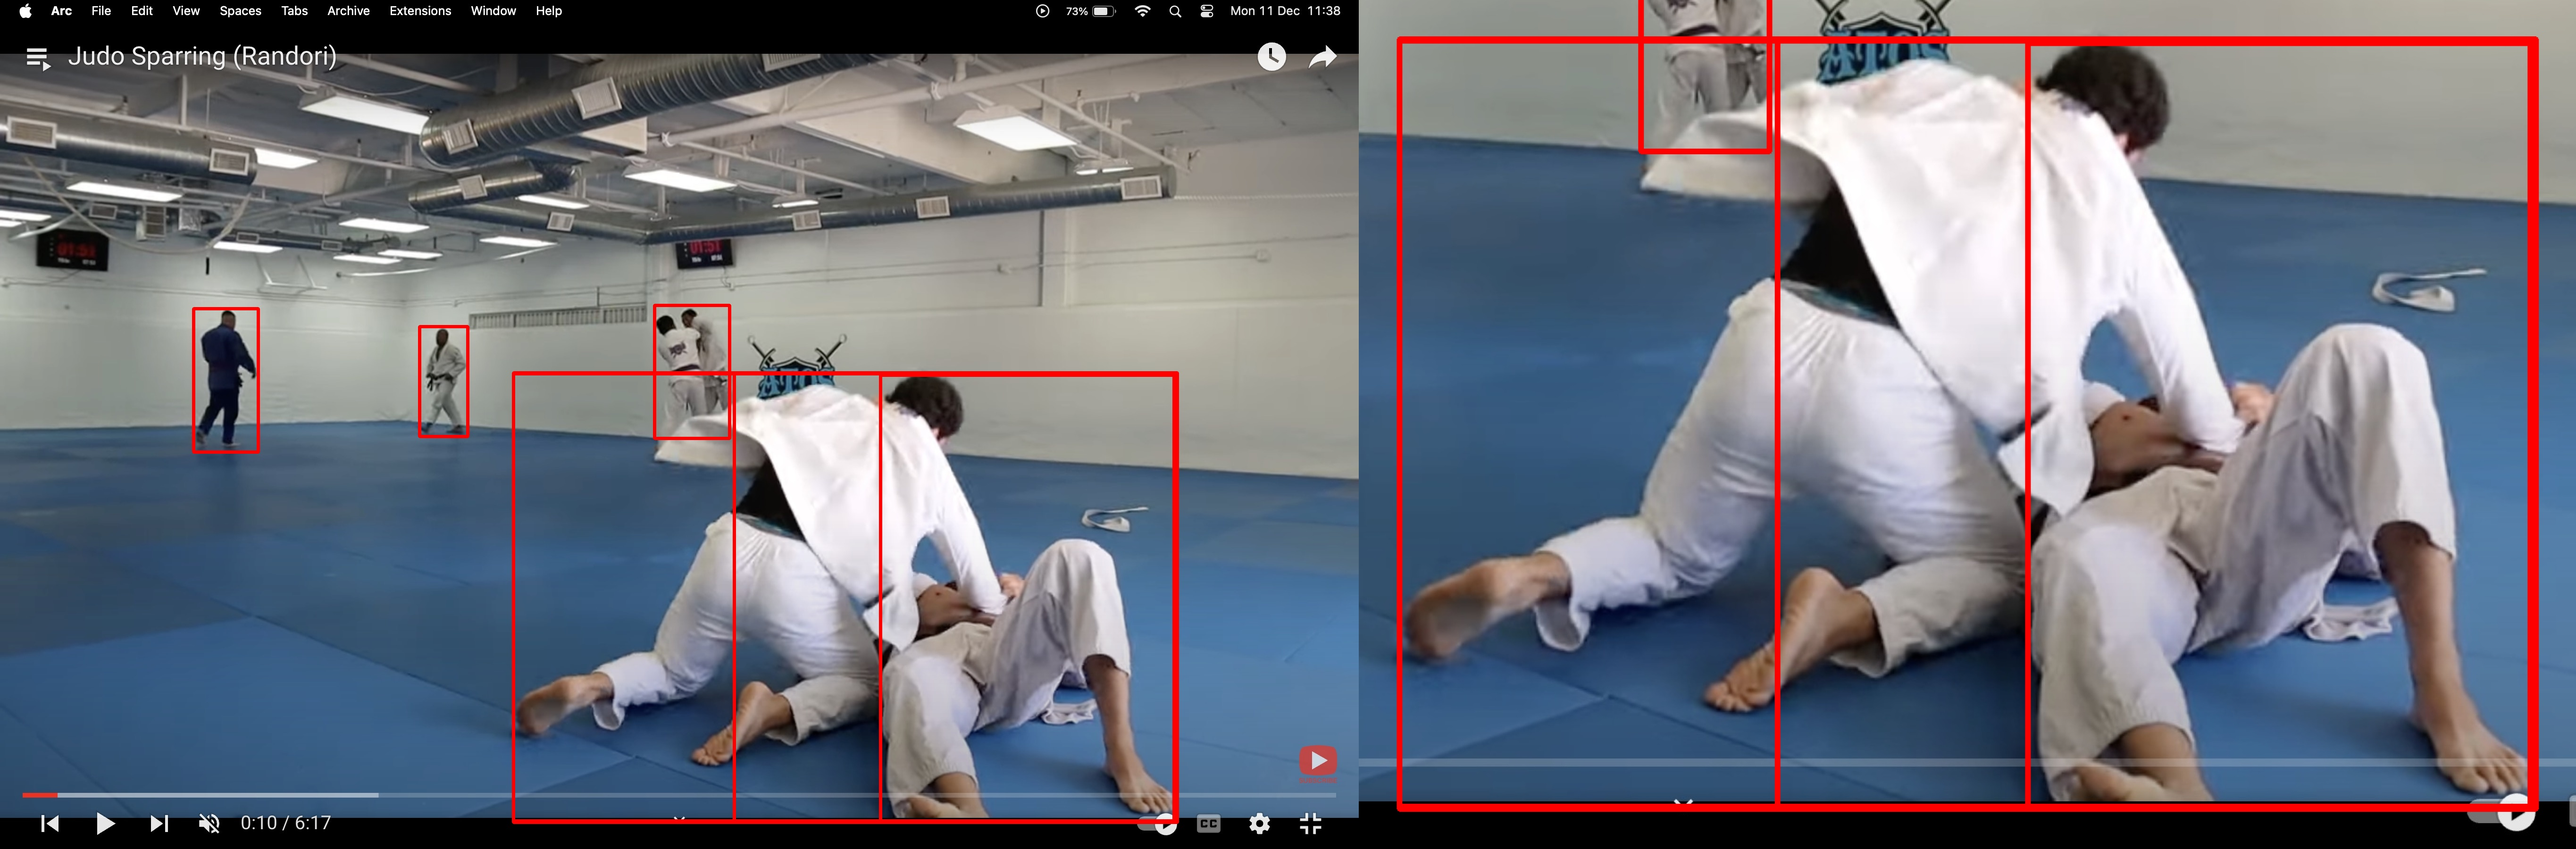
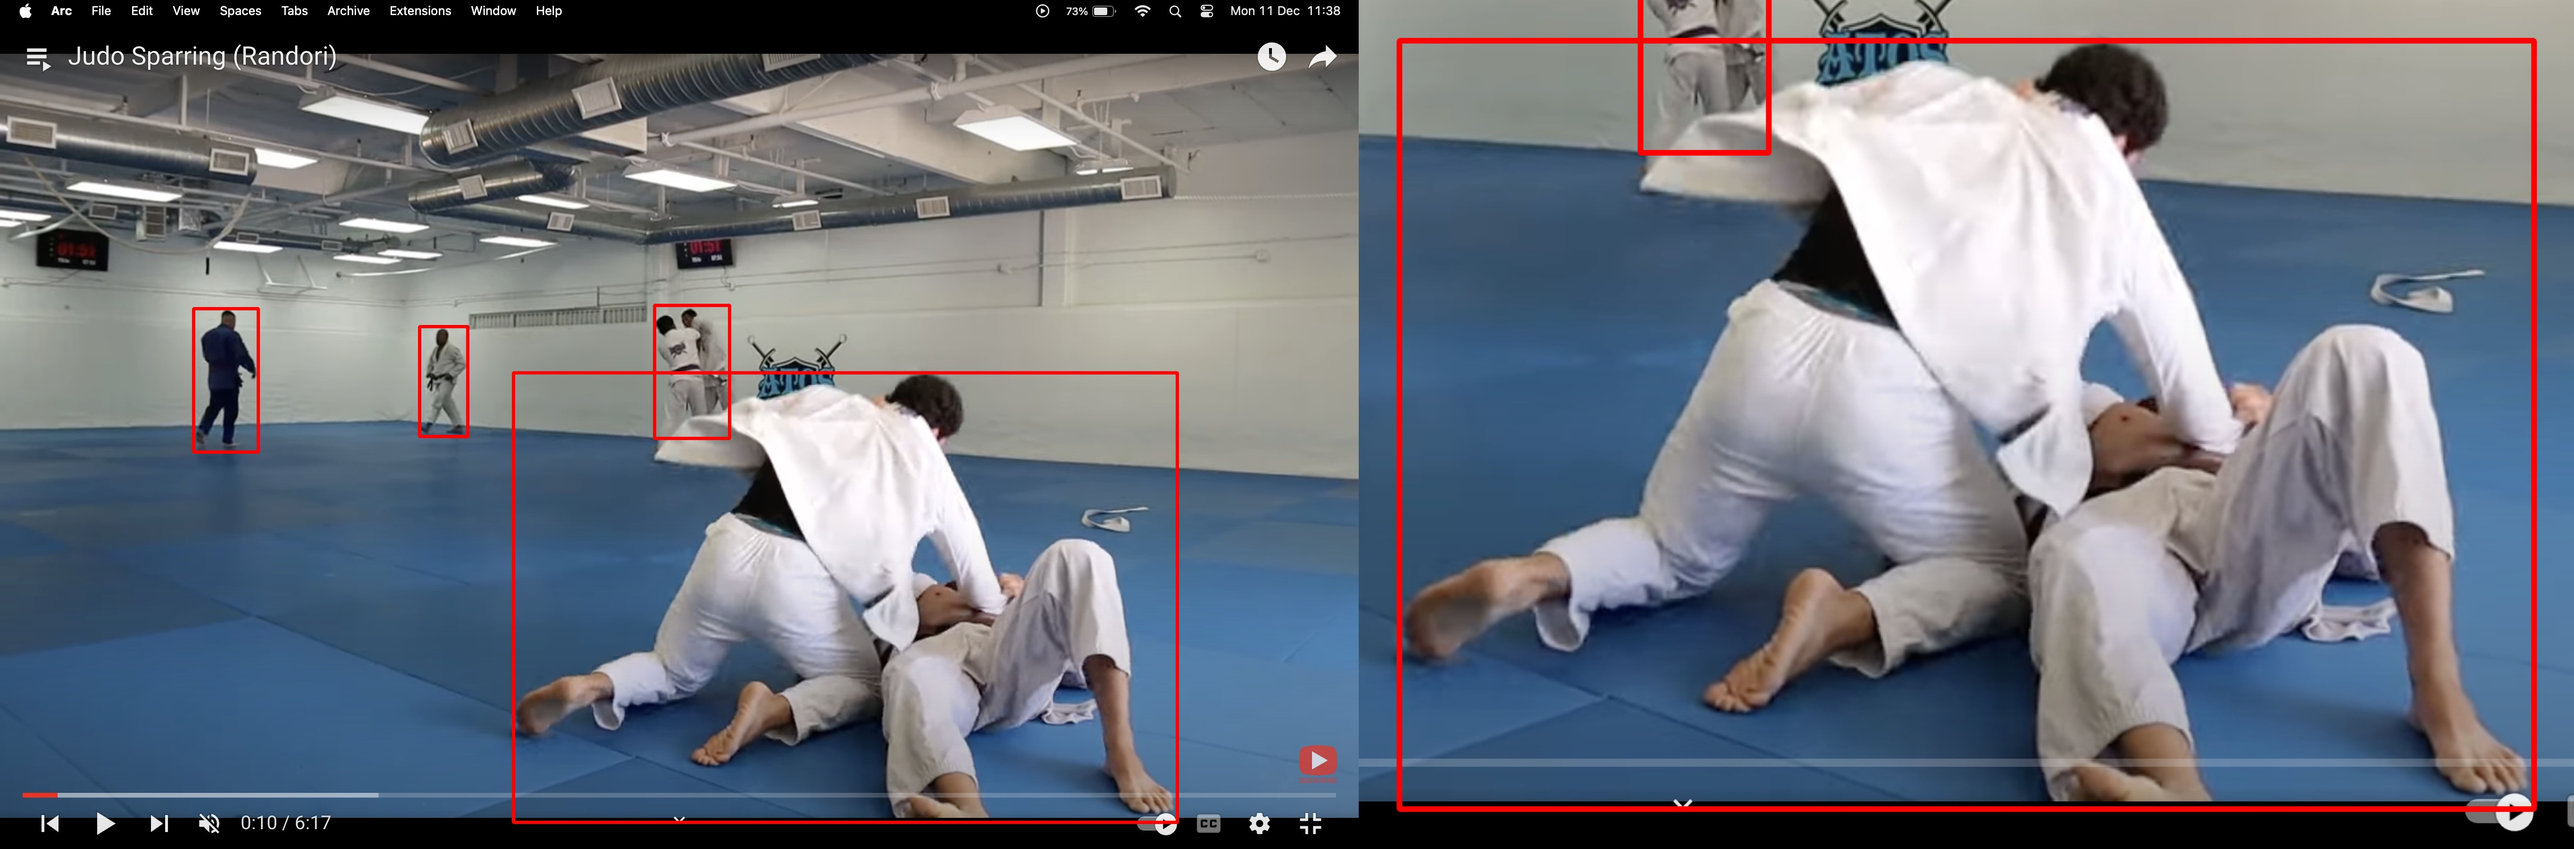
fixed multiple person detection in same pair

diff --git a/combine_bounding_boxes.py b/combine_bounding_boxes.py
@@ -3,8 +3,36 @@ import cv2
 from PIL import Image
 from itertools import combinations
 import numpy as np
+import copy
 
 model = YOLO("yolov8n.pt")
+
+
+def get_boxes(boxes):
+    
+    merged = []
+    t_boxes = copy.deepcopy(boxes)
+
+    boxes_to_check = merged + t_boxes
+
+    while any(mergeable(j0,k0) for j0,k0 in combinations(boxes_to_check, r=2)):
+        merged = []
+        t_boxes = copy.deepcopy(boxes_to_check)
+        for j,k in combinations(boxes_to_check, r=2):
+            if mergeable(j,k):
+                merged.append(list(merge(j,k)))
+                try:
+                    t_boxes.remove(j)
+                except ValueError:
+                    pass
+                try:
+                    t_boxes.remove(k)
+                except ValueError:
+                    pass
+                break
+        boxes_to_check = t_boxes + merged
+    
+    return boxes_to_check
 
 
 def mergeable(box1, box2, x_val=100, y_val=100):
@@ -141,7 +169,7 @@ final_boxes = []
 max_area = []
 
 results = model.predict(
-    ["starter_images/img1.jpg", 'starter_images/img2.jpg', 'starter_images/img3.jpg'], classes=[0], show_conf=False, show_labels=False
+    ["starter_images/img1.jpg", 'starter_images/img2.jpg', 'starter_images/img3.jpg'], classes=[0]
 )
 for i, r in enumerate(results):
     
@@ -149,19 +177,9 @@ for i, r in enumerate(results):
 
     bounding_boxes.extend(r.boxes.xyxy.tolist())
 
+    final_boxes = get_boxes(bounding_boxes)
 
-    for j, k in combinations(r.boxes.xyxy.tolist(), r=2):
-        if mergeable(j, k):
-            t.append(list(merge(j, k)))
-            try:
-                bounding_boxes.remove(j)
-                bounding_boxes.remove(k)
-            except ValueError:
-                pass
-
-    # print(t+bounding_boxes)
-
-    final_boxes = t+bounding_boxes
+    # final_boxes = t+bounding_boxes
 
     max_area = max(final_boxes, key=lambda coord: (coord[2]-coord[0])*(coord[3]-coord[1]))
 
